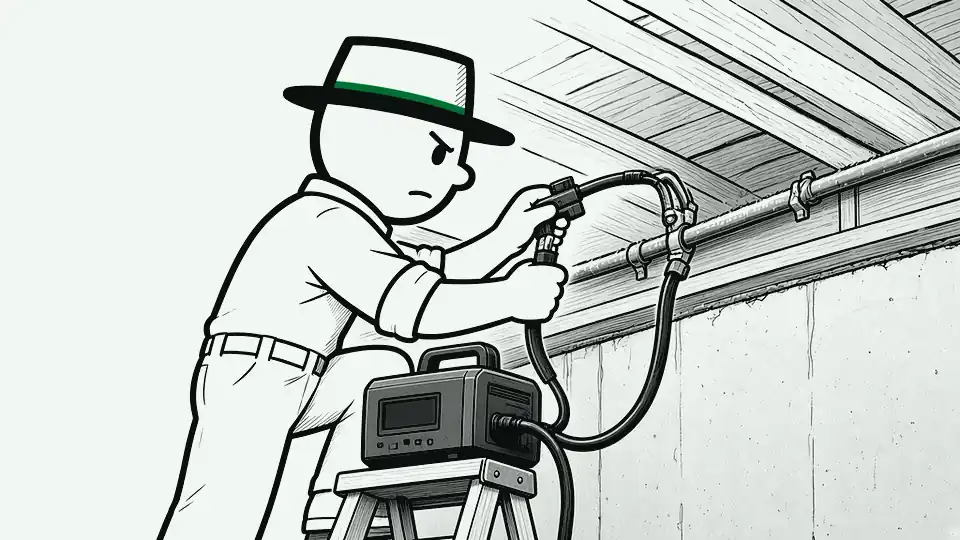
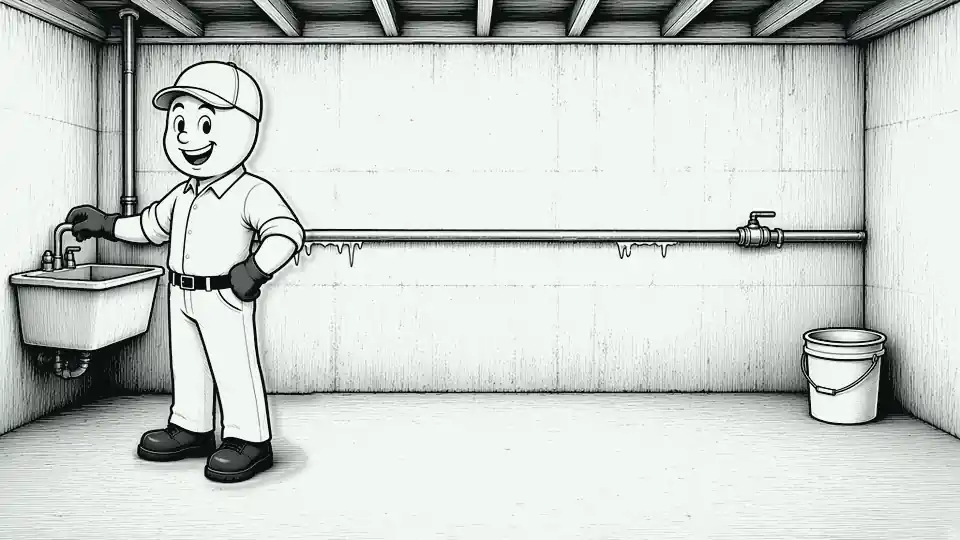
scenes: thaw redrawn in v7 hand-inked style (6 frames)

diff --git a/scenes/thaw.js b/scenes/thaw.js
@@ -1,1 +1,1 @@
-(window.EESceneData=window.EESceneData||{})["thaw"]={"kind":"kf","w":960,"h":540,"title":"Frozen pipes thawed","alt":"A thermal camera spots the frozen pipe at the rim joist, an electric thawing unit warms it from both ends, the frost melts, and he insulates the run.","frames":[{"src":"scenes/kf/thaw-1.webp?v=6","hold":560,"tw":{"x":-4}},{"src":"scenes/kf/thaw-2.webp?v=6","hold":560,"tw":{"y":-6},"o":[{"x":656,"y":178,"t":"effort","a":-30}]},{"src":"scenes/kf/thaw-3.webp?v=6","hold":560,"tw":{"x":5,"ms":240},"o":[{"x":656,"y":281,"t":"drips"}]},{"src":"scenes/kf/thaw-4.webp?v=6","hold":560,"tw":{"sy":0.99,"ms":200}},{"src":"scenes/kf/thaw-5.webp?v=6","hold":760,"tw":{"y":8,"r":-1,"ms":300},"o":[{"x":110,"y":100,"t":"check"}]}],"placeholder":false};
+(window.EESceneData=window.EESceneData||{})["thaw"]={"kind":"kf","w":960,"h":540,"title":"Frozen pipes thawed","alt":"He finds the frosted section of the copper line by hand, opens the faucet at the utility sink so melting water has somewhere to go, warms the pipe with an electric heat gun starting at the open faucet end, works along the icy section until it drips free, snaps foam insulation over the cold run, and gives a thumbs-up.","frames":[{"src":"scenes/kf/thaw-1.webp?v=7.2","hold":500,"tw":{"x":-3},"o":[{"x":38,"y":66,"t":"word","text":"FROZEN","s":41}]},{"src":"scenes/kf/thaw-2.webp?v=7.2","hold":480,"tw":{"y":-4},"o":[{"x":600,"y":309,"t":"word","text":"TAP OPEN","s":38}]},{"src":"scenes/kf/thaw-3.webp?v=7.2","hold":520,"tw":{"x":4,"ms":240},"o":[{"x":525,"y":309,"t":"word","text":"WARM IT","s":39}]},{"src":"scenes/kf/thaw-4.webp?v=7.2","hold":560,"tw":{"sy":0.99,"ms":200},"o":[{"x":38,"y":375,"t":"word","text":"DRIP","s":41}]},{"src":"scenes/kf/thaw-5.webp?v=7.2","hold":480,"tw":{"y":-4},"o":[{"x":38,"y":66,"t":"word","text":"INSULATE","s":39}]},{"src":"scenes/kf/thaw-6.webp?v=7.2","hold":1000,"tw":{"y":6,"r":-0.8,"ms":300},"o":[{"x":850,"y":270,"t":"check"}]}],"placeholder":false};
